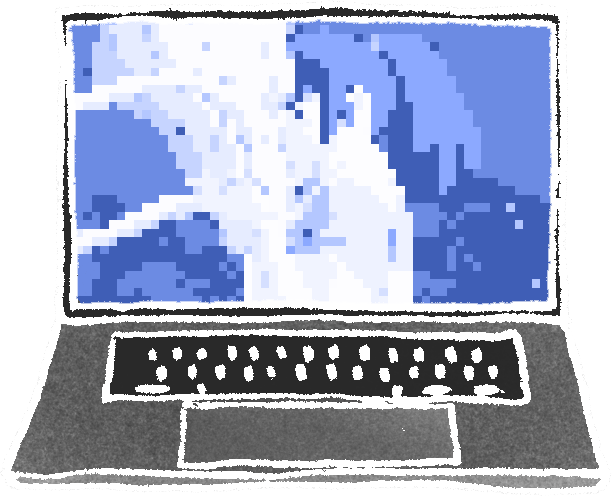
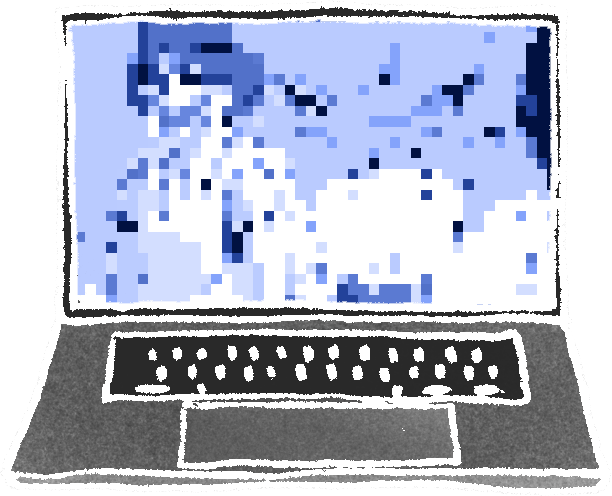
updated room

diff --git a/01/room.html b/01/room.html
@@ -22,6 +22,7 @@
     <img src="../img/pc1.png" class="pc" id="pc1">
     <img src="../img/pc2.png" class="pc" id="pc2">
     <img src="../img/can.png" id="can">
+    <img src="../img/pc3.png" class="pc" id="pc3">
     </div>
     <h1 class="t1"></h1>
     <h1 class="t2"></h1>
@@ -76,6 +77,10 @@
 		        })
             },1000);
             $("#can").css({'pointer-events': 'none'});
+        });
+
+        $(".t3").click(function() {
+            $("#pc3").fadeIn();
         });
 	</script>
 </body>

diff --git a/01/style.css b/01/style.css
@@ -106,7 +106,7 @@ button:hover {
     position: relative;
 }
 
-#pc2 {
+#pc2,#pc3{
     display: none;
 }
 
